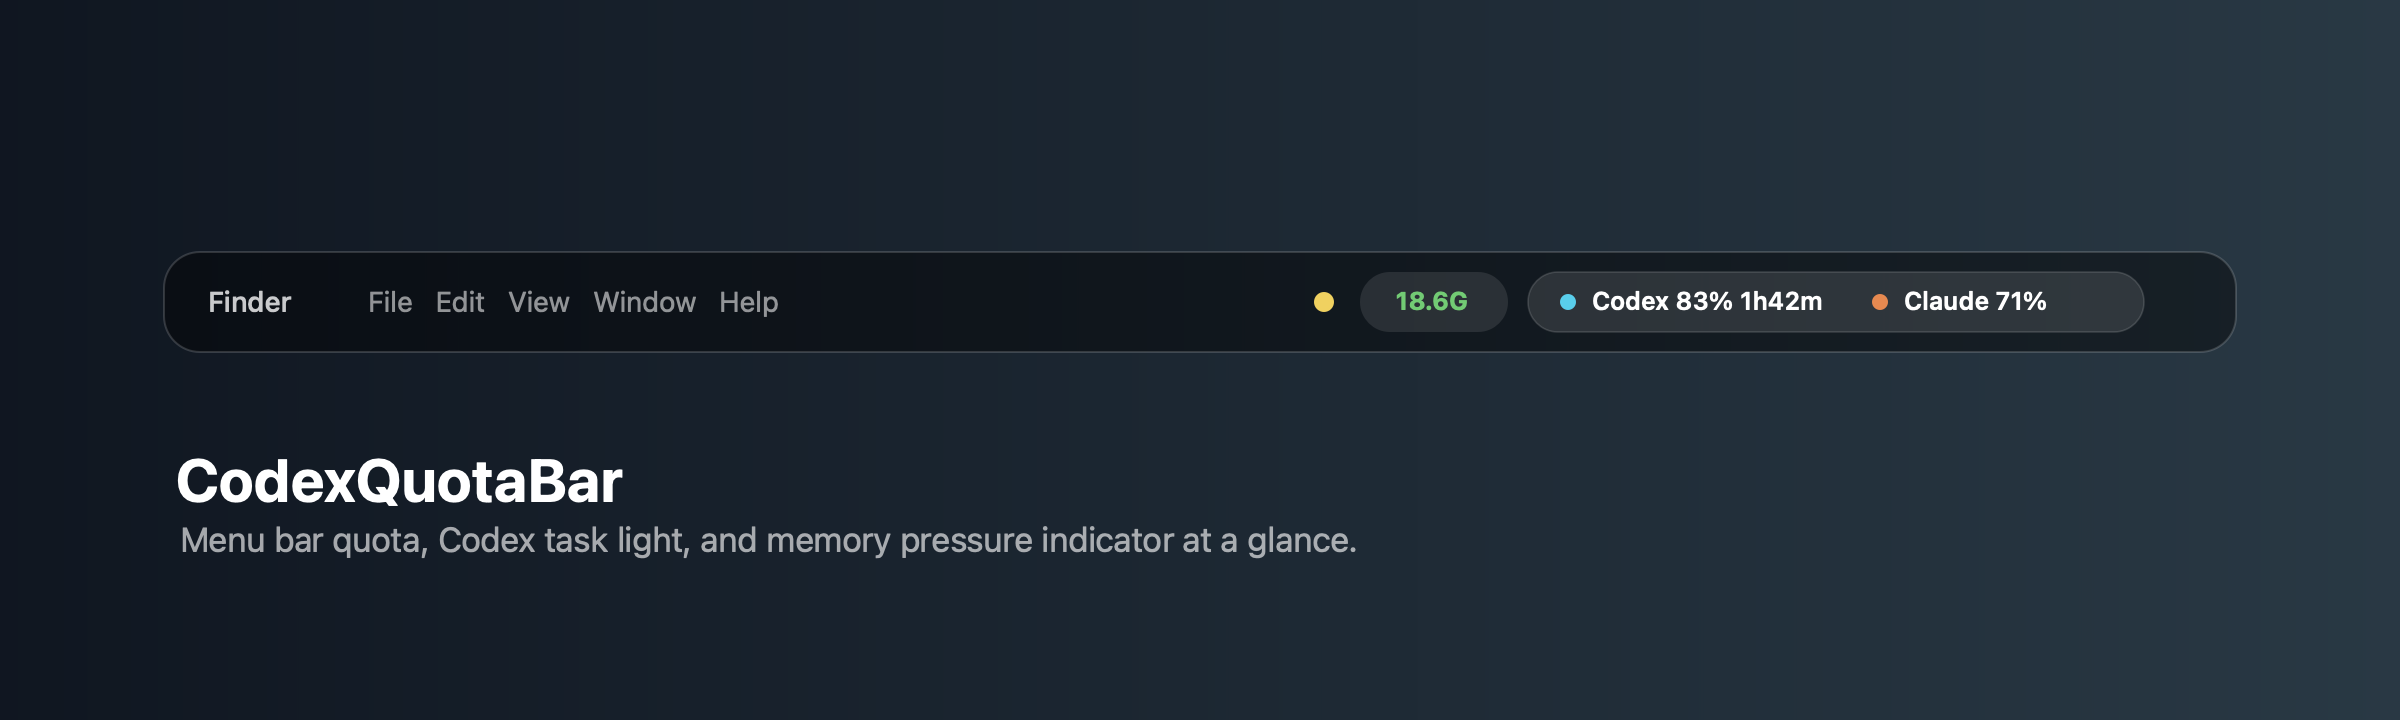
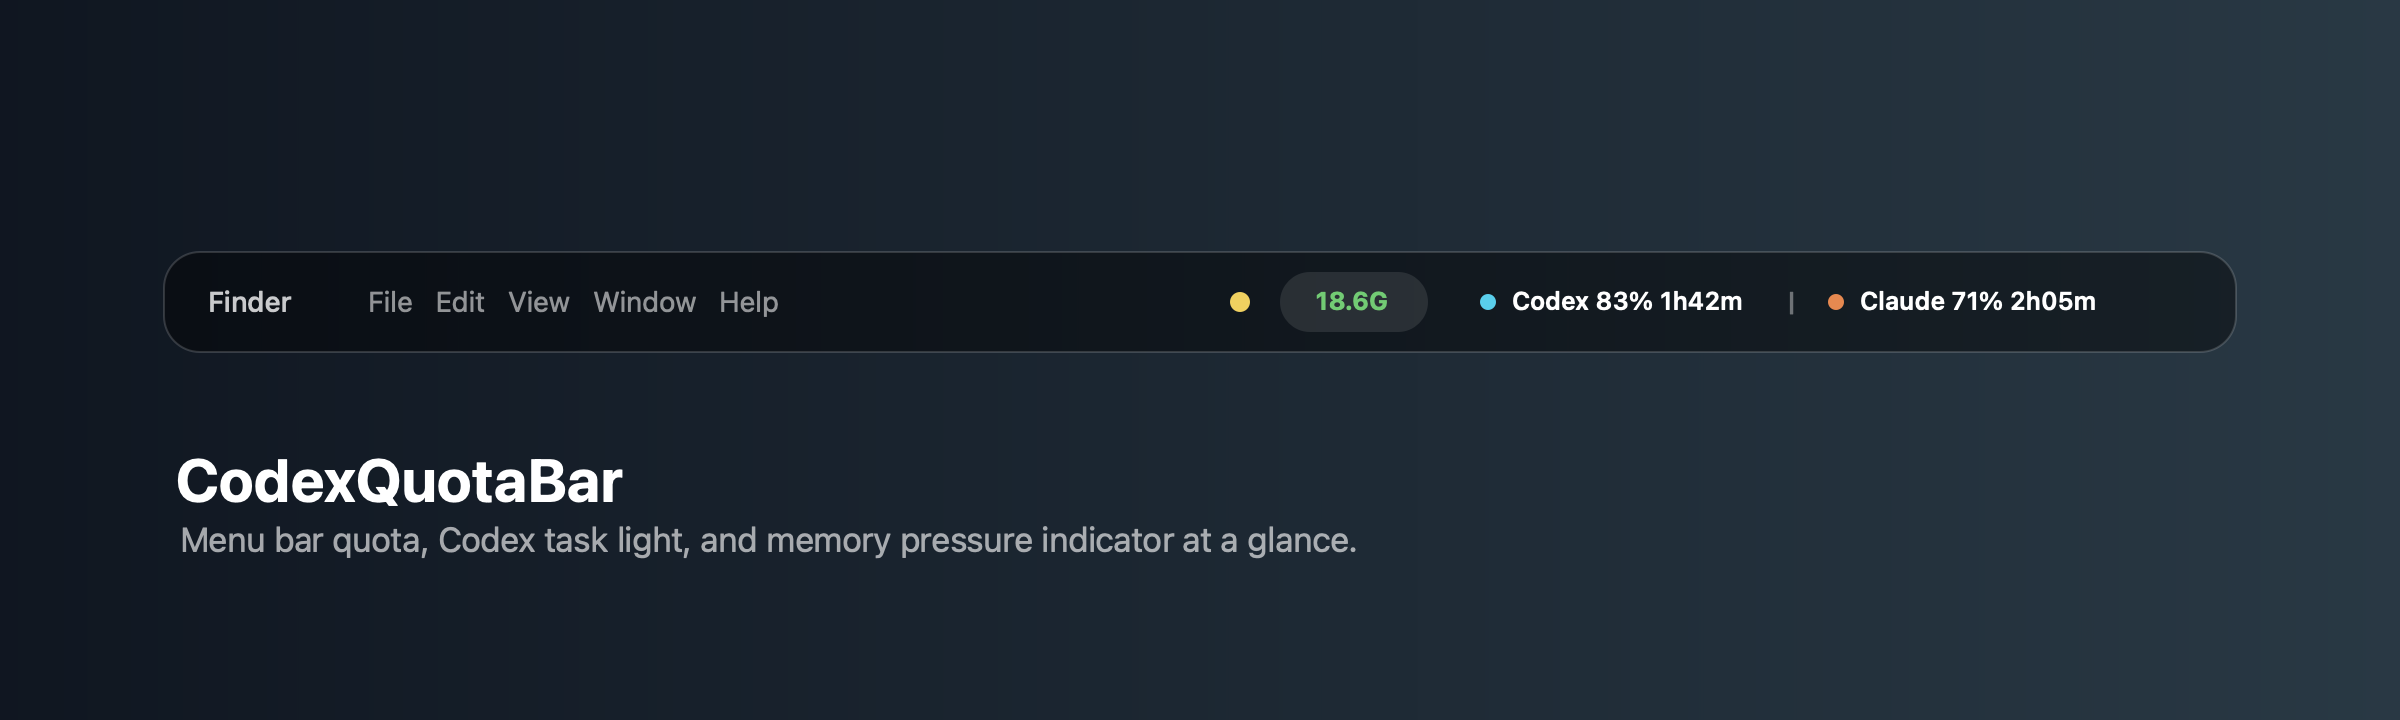
Fix Spark supplemental fetch

Changed region(s): [[0.5, 0.3667, 0.9062, 0.4889]]

diff --git a/scripts/generate-screenshots.swift b/scripts/generate-screenshots.swift
@@ -176,13 +176,16 @@ func drawPanelScreenshot() -> NSImage {
         text(label, rect: NSRect(x: x, y: panel.minY + 27, width: 56, height: 12), size: 10.5, weight: .medium, color: NSColor.white.withAlphaComponent(0.62), align: .center)
     }
 
-    let menu = NSRect(x: 98, y: 410, width: 490, height: 42)
-    rounded(menu, radius: 21, fill: NSColor.white.withAlphaComponent(0.11), stroke: NSColor.white.withAlphaComponent(0.14), lineWidth: 1)
-    circle(NSPoint(x: menu.minX + 24, y: menu.midY), radius: 4, color: cyan)
-    text("Codex 83% 1h42m", rect: NSRect(x: menu.minX + 36, y: menu.minY + 12, width: 150, height: 18), size: 14, weight: .semibold)
-    circle(NSPoint(x: menu.minX + 212, y: menu.midY), radius: 4, color: orange)
-    text("Claude 71% 2h05m", rect: NSRect(x: menu.minX + 224, y: menu.minY + 12, width: 165, height: 18), size: 14, weight: .semibold)
-    text("18.6G", rect: NSRect(x: menu.maxX - 78, y: menu.minY + 12, width: 55, height: 18), size: 14, weight: .bold, color: green, align: .right)
+    let menu = NSRect(x: 98, y: 410, width: 590, height: 42)
+    rounded(menu, radius: 21, fill: NSColor.black.withAlphaComponent(0.24), stroke: NSColor.white.withAlphaComponent(0.12), lineWidth: 1)
+    circle(NSPoint(x: menu.minX + 24, y: menu.midY), radius: 5, color: yellow)
+    rounded(NSRect(x: menu.minX + 44, y: menu.minY + 7, width: 76, height: 28), radius: 14, fill: NSColor.white.withAlphaComponent(0.10))
+    text("18.6G", rect: NSRect(x: menu.minX + 56, y: menu.minY + 14, width: 52, height: 16), size: 12.5, weight: .bold, color: green, align: .center)
+    circle(NSPoint(x: menu.minX + 150, y: menu.midY), radius: 4, color: cyan)
+    text("Codex 83% 1h42m", rect: NSRect(x: menu.minX + 164, y: menu.minY + 12, width: 150, height: 18), size: 14, weight: .semibold)
+    text("|", rect: NSRect(x: menu.minX + 316, y: menu.minY + 12, width: 14, height: 18), size: 14, weight: .semibold, color: NSColor.white.withAlphaComponent(0.36), align: .center)
+    circle(NSPoint(x: menu.minX + 342, y: menu.midY), radius: 4, color: orange)
+    text("Claude 71% 2h05m", rect: NSRect(x: menu.minX + 356, y: menu.minY + 12, width: 165, height: 18), size: 14, weight: .semibold)
 
     text("Dashboard + floating widget share the same card stack.",
          rect: NSRect(x: 100, y: 358, width: 520, height: 22), size: 16, color: NSColor.white.withAlphaComponent(0.58))
@@ -205,15 +208,15 @@ func drawMenuBarScreenshot() -> NSImage {
     text("Finder", rect: NSRect(x: bar.minX + 22, y: bar.minY + 16, width: 80, height: 18), size: 14, weight: .medium, color: NSColor.white.withAlphaComponent(0.78))
     text("File   Edit   View   Window   Help", rect: NSRect(x: bar.minX + 102, y: bar.minY + 16, width: 280, height: 18), size: 14, color: NSColor.white.withAlphaComponent(0.55))
 
-    let right = bar.maxX - 470
-    circle(NSPoint(x: right + 14, y: bar.midY), radius: 5, color: yellow)
+    let right = bar.maxX - 510
+    circle(NSPoint(x: right + 12, y: bar.midY), radius: 5, color: yellow)
     rounded(NSRect(x: right + 32, y: bar.minY + 10, width: 74, height: 30), radius: 15, fill: NSColor.white.withAlphaComponent(0.10))
     text("18.6G", rect: NSRect(x: right + 42, y: bar.minY + 17, width: 52, height: 16), size: 12.5, weight: .bold, color: green, align: .center)
-    rounded(NSRect(x: right + 116, y: bar.minY + 10, width: 308, height: 30), radius: 15, fill: NSColor.white.withAlphaComponent(0.11), stroke: NSColor.white.withAlphaComponent(0.14), lineWidth: 0.8)
     circle(NSPoint(x: right + 136, y: bar.midY), radius: 4, color: cyan)
     text("Codex 83% 1h42m", rect: NSRect(x: right + 148, y: bar.minY + 17, width: 128, height: 16), size: 12.5, weight: .semibold)
-    circle(NSPoint(x: right + 292, y: bar.midY), radius: 4, color: orange)
-    text("Claude 71%", rect: NSRect(x: right + 304, y: bar.minY + 17, width: 82, height: 16), size: 12.5, weight: .semibold)
+    text("|", rect: NSRect(x: right + 282, y: bar.minY + 17, width: 12, height: 16), size: 12.5, weight: .semibold, color: NSColor.white.withAlphaComponent(0.38), align: .center)
+    circle(NSPoint(x: right + 310, y: bar.midY), radius: 4, color: orange)
+    text("Claude 71% 2h05m", rect: NSRect(x: right + 322, y: bar.minY + 17, width: 136, height: 16), size: 12.5, weight: .semibold)
 
     text("CodexQuotaBar", rect: NSRect(x: 88, y: 104, width: 260, height: 34), size: 30, weight: .bold)
     text("Menu bar quota, Codex task light, and memory pressure indicator at a glance.",

diff --git a/Sources/CodexQuotaCore/OfficialCodexProvider.swift b/Sources/CodexQuotaCore/OfficialCodexProvider.swift
@@ -486,12 +486,32 @@ public final class OfficialCodexProvider: CodexQuotaProvider, @unchecked Sendabl
         process.standardError = Pipe()
 
         let semaphore = DispatchSemaphore(value: 0)
-        let output = LockedBox<Data?>(nil)
+        let output = SupplementalCommandOutput()
+
+        outputPipe.fileHandleForReading.readabilityHandler = { handle in
+            let data = handle.availableData
+            guard !data.isEmpty else {
+                if output.finish() {
+                    semaphore.signal()
+                }
+                return
+            }
+
+            if output.append(data, responseExtractor: accountRateLimitsResponseData(from:)) {
+                handle.readabilityHandler = nil
+                try? inputPipe.fileHandleForWriting.close()
+                if process.isRunning {
+                    process.terminate()
+                }
+                semaphore.signal()
+            }
+        }
 
         process.terminationHandler = { _ in
-            let data = outputPipe.fileHandleForReading.readDataToEndOfFile()
-            output.set(data)
-            semaphore.signal()
+            outputPipe.fileHandleForReading.readabilityHandler = nil
+            if output.finish() {
+                semaphore.signal()
+            }
         }
 
         do {
@@ -500,23 +520,21 @@ public final class OfficialCodexProvider: CodexQuotaProvider, @unchecked Sendabl
             if let inputData = input.data(using: .utf8) {
                 inputPipe.fileHandleForWriting.write(inputData)
             }
-            try? inputPipe.fileHandleForWriting.close()
         } catch {
+            outputPipe.fileHandleForReading.readabilityHandler = nil
             return nil
         }
 
         if semaphore.wait(timeout: .now() + timeout) == .timedOut {
-            if process.isRunning {
+            outputPipe.fileHandleForReading.readabilityHandler = nil
+            if output.finish(), process.isRunning {
+                try? inputPipe.fileHandleForWriting.close()
                 process.terminate()
             }
             return nil
         }
 
-        let completedOutput = output.get()
-        guard let completedOutput else {
-            return nil
-        }
-        return accountRateLimitsResponseData(from: completedOutput)
+        return output.response()
     }
 
     private func decodeRateWindow(
@@ -598,5 +616,41 @@ private actor SupplementalRateLimitsCache {
     func store(_ data: Data) {
         cachedData = data
         cachedAt = Date()
+    }
+}
+
+private final class SupplementalCommandOutput: @unchecked Sendable {
+    private let lock = NSLock()
+    private var buffer = Data()
+    private var responseData: Data?
+    private var isFinished = false
+
+    func append(_ data: Data, responseExtractor: (Data) -> Data?) -> Bool {
+        lock.lock()
+        defer { lock.unlock() }
+        guard !isFinished else { return false }
+
+        buffer.append(data)
+        guard let response = responseExtractor(buffer) else {
+            return false
+        }
+
+        responseData = response
+        isFinished = true
+        return true
+    }
+
+    func finish() -> Bool {
+        lock.lock()
+        defer { lock.unlock() }
+        guard !isFinished else { return false }
+        isFinished = true
+        return true
+    }
+
+    func response() -> Data? {
+        lock.lock()
+        defer { lock.unlock() }
+        return responseData
     }
 }
